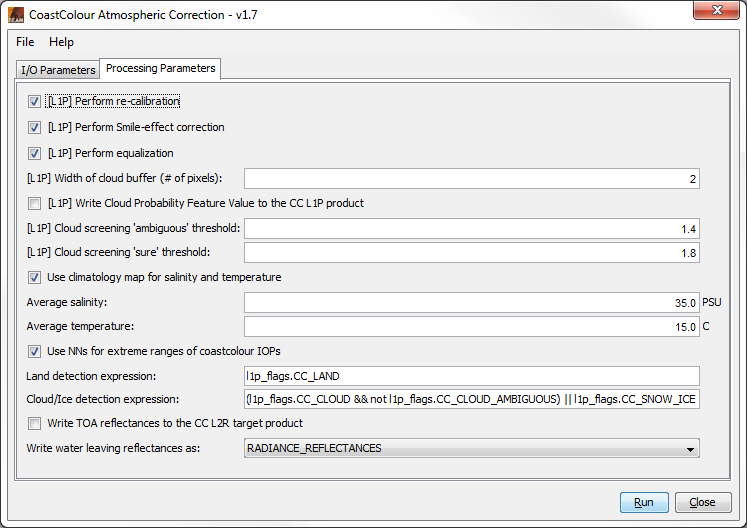
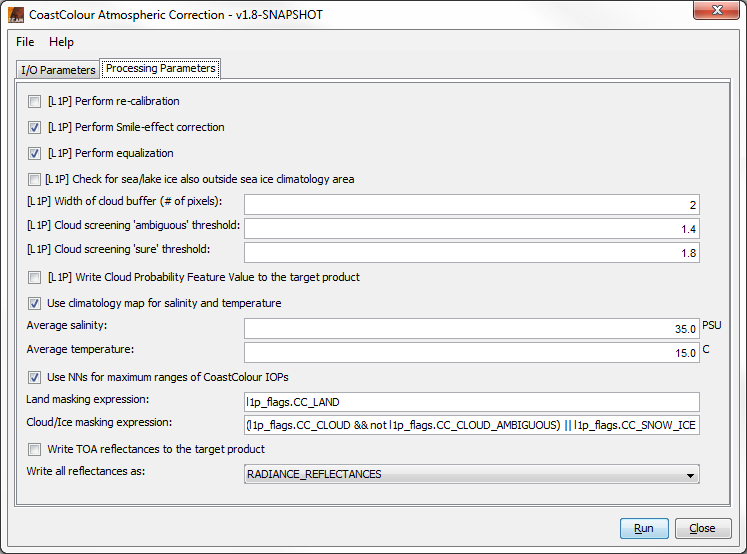
added Idepix parameter to check for sea/lake ice outside climatology

Changed region(s): [[0.0, 0.0, 1.0, 0.8788], [0.0308, 0.9091, 0.9853, 1.0]]

diff --git a/coastcolour-processing/src/main/resources/doc/help/coastcolour/CoastcolourL1PDescription.html b/coastcolour-processing/src/main/resources/doc/help/coastcolour/CoastcolourL1PDescription.html
@@ -122,6 +122,11 @@
 </p>
 
 <p class="i1">
+    <b>Check for sea/lake ice also outside sea ice climatology area:</b>
+    This checkbox indicates if the algorithm checks for sea/lake ice also outside the sea ice climatology area.
+</p>
+
+<p class="i1">
     <b>Width of cloud buffer (# of pixels):</b>
     This value is the width of a cloud 'safety buffer' around a pixel which was classified as cloudy.
 </p>

diff --git a/coastcolour-processing/src/main/java/org/esa/beam/coastcolour/processing/L2ROp.java b/coastcolour-processing/src/main/java/org/esa/beam/coastcolour/processing/L2ROp.java
@@ -62,6 +62,13 @@ public class L2ROp extends Operator {
 
 
     // IdePix parameters  from L1P
+    @Parameter(defaultValue = "false",
+               description = "Check for sea/lake ice also outside Sea Ice Climatology area." +
+                       "This is a L1P option and has only effect if the source product is a MERIS L1b product.",
+               label = "[L1P] Check for sea/lake ice also outside sea ice climatology area"
+    )
+    private boolean ccIgnoreSeaIceClimatology;
+
     @Parameter(defaultValue = "2", interval = "[0,100]",
                description = "The width of a cloud 'safety buffer' around a pixel which was classified as cloudy. " +
                        "This is a L1P option and has only effect if the source product is a MERIS L1b product.",
@@ -174,7 +181,7 @@ public class L2ROp extends Operator {
     }
 
     private HashMap<String, Object> createGlintAcParameterMap() {
-        HashMap<String, Object> glintParameters = new HashMap<>();
+        HashMap<String, Object> glintParameters = new HashMap<String, Object>();
         glintParameters.put("doSmileCorrection", false);
         glintParameters.put("outputReflec", true);
 //        glintParameters.put("outputNormReflec", true);
@@ -202,12 +209,13 @@ public class L2ROp extends Operator {
     }
 
     private HashMap<String, Object> createL1pParameterMap() {
-        HashMap<String, Object> l1pParams = new HashMap<>();
+        HashMap<String, Object> l1pParams = new HashMap<String, Object>();
         l1pParams.put("doCalibration", doCalibration);
         l1pParams.put("doSmile", doSmile);
         l1pParams.put("doEqualization", doEqualization);
         l1pParams.put("useIdepix", true);
         l1pParams.put("ccCloudBufferWidth", ccCloudBufferWidth);
+        l1pParams.put("ccIgnoreSeaIceClimatology", ccIgnoreSeaIceClimatology);
         l1pParams.put("ccCloudScreeningAmbiguous", ccCloudScreeningAmbiguous);
         l1pParams.put("ccCloudScreeningSure", ccCloudScreeningSure);
         l1pParams.put("ccOutputCloudProbabilityFeatureValue", ccOutputCloudProbabilityFeatureValue);

diff --git a/coastcolour-processing/src/main/java/org/esa/beam/coastcolour/processing/L2WOp.java b/coastcolour-processing/src/main/java/org/esa/beam/coastcolour/processing/L2WOp.java
@@ -67,6 +67,13 @@ public class L2WOp extends Operator {
     private boolean doEqualization;
 
     // IdePix parameters  from L1P
+    @Parameter(defaultValue = "false",
+               description = "Check for sea/lake ice also outside Sea Ice Climatology area. " +
+                       "This is a L1P option and has only effect if the source product is a MERIS L1b product.",
+               label = "[L1P] Check for sea/lake ice also outside sea ice climatology area"
+    )
+    private boolean ccIgnoreSeaIceClimatology;
+
     @Parameter(defaultValue = "2", interval = "[0,100]",
                description = "The width of a cloud 'safety buffer' around a pixel which was classified as cloudy. " +
                        "This is a L1P option and has only effect if the source product is a MERIS L1b product.",
@@ -630,7 +637,7 @@ public class L2WOp extends Operator {
     }
 
     private HashMap<String, Object> createQaaParameterMap() {
-        HashMap<String, Object> qaaParams = new HashMap<>();
+        HashMap<String, Object> qaaParams = new HashMap<String, Object>();
         qaaParams.put("invalidPixelExpression", invalidPixelExpression);
         qaaParams.put("aTotalLower", qaaATotalLower);
         qaaParams.put("aTotalUpper", qaaATotalUpper);
@@ -647,12 +654,13 @@ public class L2WOp extends Operator {
     }
 
     private HashMap<String, Object> createBaseL2RParameterMap() {
-        HashMap<String, Object> l2rParams = new HashMap<>();
+        HashMap<String, Object> l2rParams = new HashMap<String, Object>();
         l2rParams.put("doCalibration", doCalibration);
         l2rParams.put("doSmile", doSmile);
         l2rParams.put("doEqualization", doEqualization);
         l2rParams.put("useIdepix", true);
         l2rParams.put("ccCloudBufferWidth", ccCloudBufferWidth);
+        l2rParams.put("ccIgnoreSeaIceClimatology", ccIgnoreSeaIceClimatology);
         l2rParams.put("ccCloudScreeningAmbiguous", ccCloudScreeningAmbiguous);
         l2rParams.put("ccCloudScreeningSure", ccCloudScreeningSure);
         l2rParams.put("useSnTMap", useSnTMap);

diff --git a/coastcolour-processing/src/main/java/org/esa/beam/coastcolour/processing/L1POp.java b/coastcolour-processing/src/main/java/org/esa/beam/coastcolour/processing/L1POp.java
@@ -89,6 +89,12 @@ public class L1POp extends Operator {
     private boolean doEqualization;
 
     // IdePix parameters
+    @Parameter(defaultValue = "false",
+               description = "Check for sea/lake ice also outside Sea Ice Climatology area.",
+               label = "Check for sea/lake ice also outside sea ice climatology area"
+    )
+    private boolean ccIgnoreSeaIceClimatology;
+
     @Parameter(defaultValue = "2", interval = "[0,100]",
             description = "The width of a cloud 'safety buffer' around a pixel which was classified as cloudy.",
             label = " Width of cloud buffer (# of pixels)")
@@ -179,6 +185,7 @@ public class L1POp extends Operator {
     private HashMap<String, Object> createIdepixParameterMap() {
         HashMap<String, Object> idepixParams = new HashMap<String, Object>();
         idepixParams.put("ccCloudBufferWidth", ccCloudBufferWidth);
+        idepixParams.put("ccIgnoreSeaIceClimatology", ccIgnoreSeaIceClimatology);
         idepixParams.put("ccCloudScreeningAmbiguous", ccCloudScreeningAmbiguous);
         idepixParams.put("ccCloudScreeningSure", ccCloudScreeningSure);
         idepixParams.put("ccOutputCloudProbabilityFeatureValue", ccOutputCloudProbabilityFeatureValue);

diff --git a/coastcolour-processing/src/main/java/org/esa/beam/coastcolour/processing/L1PIcolOp.java b/coastcolour-processing/src/main/java/org/esa/beam/coastcolour/processing/L1PIcolOp.java
@@ -42,6 +42,12 @@ public class L1PIcolOp extends Operator {
     private boolean doEqualization;
 
     // IdePix parameters
+    @Parameter(defaultValue = "false",
+               description = "Check for sea/lake ice also outside Sea Ice Climatology area.",
+               label = "Check for sea/lake ice also outside sea ice climatology area"
+    )
+    private boolean ccIgnoreSeaIceClimatology;
+
     @Parameter(defaultValue = "2", interval = "[0,100]",
                description = "The width of a cloud 'safety buffer' around a pixel which was classified as cloudy.",
                label = " Width of cloud buffer (# of pixels)")
@@ -99,6 +105,7 @@ public class L1PIcolOp extends Operator {
         l1pParams.put("doEqualization", doEqualization);
         l1pParams.put("useIdepix", true);
         l1pParams.put("ccCloudBufferWidth", ccCloudBufferWidth);
+        l1pParams.put("ccIgnoreSeaIceClimatology", ccIgnoreSeaIceClimatology);
         l1pParams.put("ccCloudScreeningAmbiguous", ccCloudScreeningAmbiguous);
         l1pParams.put("ccCloudScreeningSure", ccCloudScreeningSure);
         l1pParams.put("ccOutputCloudProbabilityFeatureValue", ccOutputCloudProbabilityFeatureValue);
